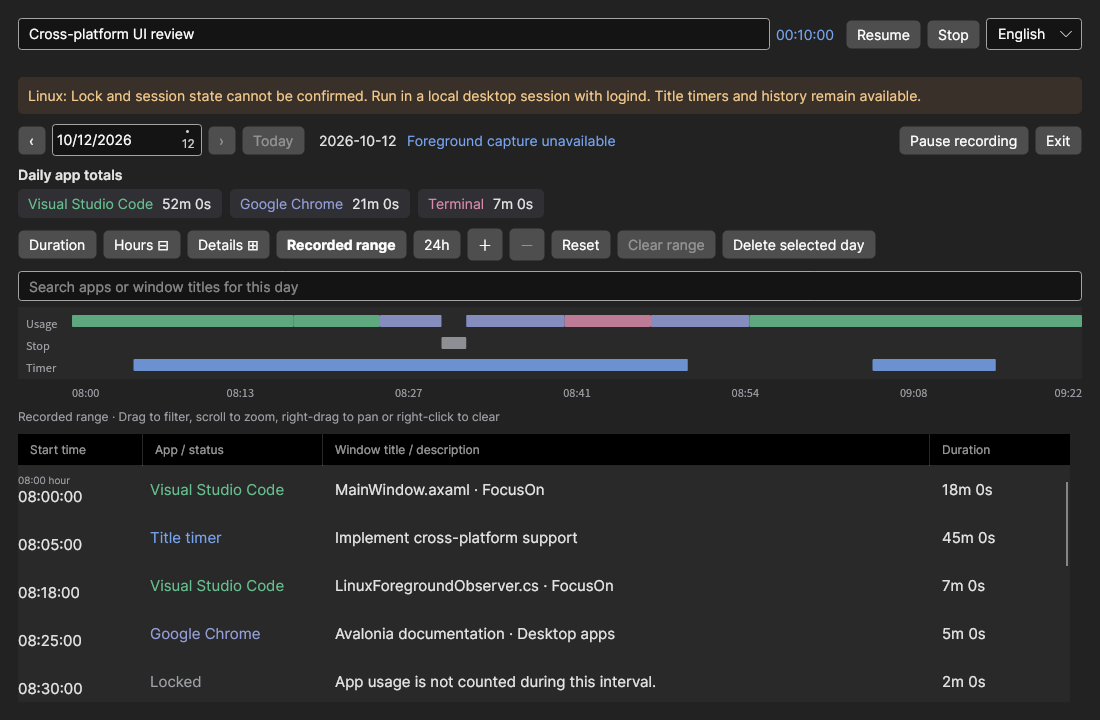
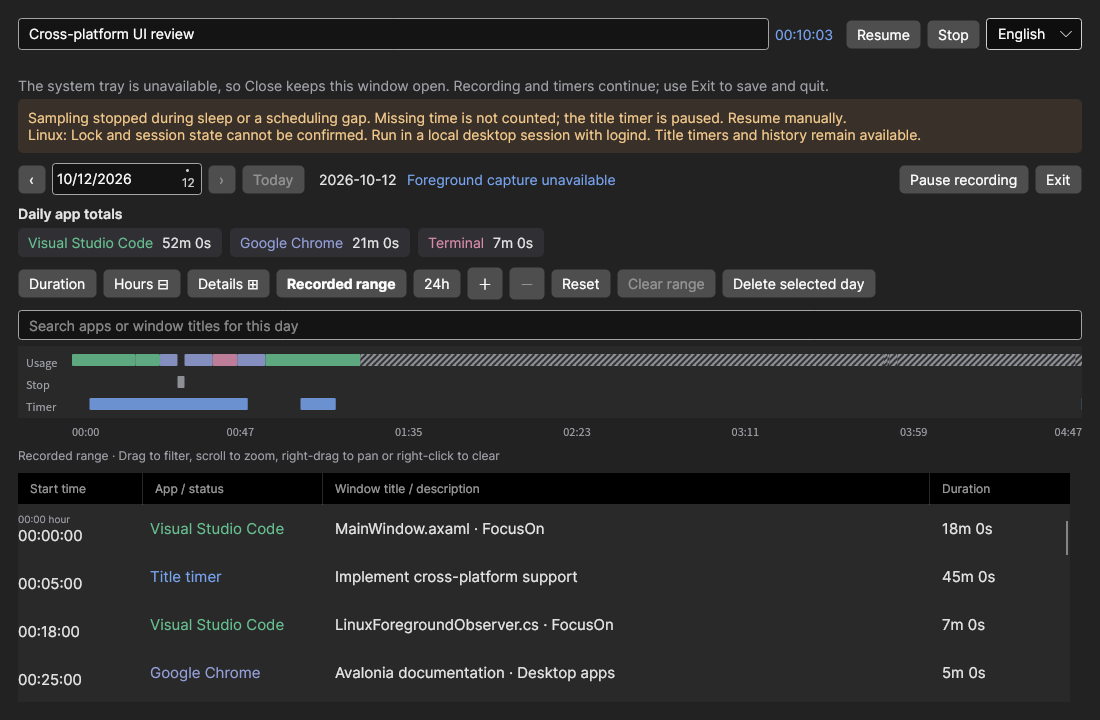
fix: make Mac single-instance IPC safe on Darwin ARM64 and long temp paths

diff --git a/src/FocusOn.Platforms/SingleInstance.cs b/src/FocusOn.Platforms/SingleInstance.cs
@@ -25,7 +25,9 @@ public sealed class SingleInstance : IDisposable
         directory = CanonicalDirectory(directory);
         var identityPath = OperatingSystem.IsWindows() ? directory.ToUpperInvariant() : directory;
         var identity = Convert.ToHexString(SHA256.HashData(Encoding.UTF8.GetBytes(Environment.UserName + "\0" + identityPath)));
-        pipeName = "FocusOn-" + identity;
+        // Darwin's per-user TMPDIR is long and Unix-domain pipe paths are limited
+        // to 104 bytes. Keep 128 bits of identity there; retain existing Win/Linux IPC names.
+        pipeName = "FocusOn-" + (OperatingSystem.IsMacOS() ? identity[..32] : identity);
         try
         {
             writer = new FileStream(Path.Combine(directory, ".focuson.lock"), FileMode.OpenOrCreate,
@@ -60,7 +62,12 @@ public sealed class SingleInstance : IDisposable
                 try
                 {
                     var buffer = new byte[1024];
-                    if (GetPath(fd, 50, buffer) == 0) directory = Encoding.UTF8.GetString(buffer, 0, Array.IndexOf(buffer, (byte)0));
+                    // fcntl is variadic. Darwin ARM64 passes varargs on the stack,
+                    // unlike the fixed three-argument P/Invoke ABI used on Intel.
+                    var result = RuntimeInformation.ProcessArchitecture == Architecture.Arm64
+                        ? GetPathArm64(fd, 50, 0, 0, 0, 0, 0, 0, buffer) : GetPath(fd, 50, buffer);
+                    var length = Array.IndexOf(buffer, (byte)0);
+                    if (result == 0 && length > 0) directory = Encoding.UTF8.GetString(buffer, 0, length);
                 }
                 finally { Close(fd); }
             }
@@ -72,6 +79,8 @@ public sealed class SingleInstance : IDisposable
     [DllImport("libc", EntryPoint = "free")] private static extern void Free(nint pointer);
     [DllImport("/usr/lib/libSystem.B.dylib", EntryPoint = "open")] private static extern int Open(string path, int flags);
     [DllImport("/usr/lib/libSystem.B.dylib", EntryPoint = "fcntl")] private static extern int GetPath(int fd, int command, byte[] path);
+    [DllImport("/usr/lib/libSystem.B.dylib", EntryPoint = "fcntl")] private static extern int GetPathArm64(int fd, int command,
+        nint unused2, nint unused3, nint unused4, nint unused5, nint unused6, nint unused7, [Out] byte[] path);
     [DllImport("/usr/lib/libSystem.B.dylib", EntryPoint = "close")] private static extern int Close(int fd);
 
     private NamedPipeServerStream CreatePipe() => new(pipeName, PipeDirection.In, 1,

diff --git a/tests/FocusOn.Tests/ResidencyTests.cs b/tests/FocusOn.Tests/ResidencyTests.cs
@@ -5,6 +5,31 @@ namespace FocusOn.Tests;
 public sealed class ResidencyTests
 {
     [Fact]
+    public void Unix_aliases_activate_the_same_writer_including_case_insensitive_Mac_volumes()
+    {
+        if (OperatingSystem.IsWindows()) return;
+        var directory = Path.Combine(Path.GetTempPath(), "FocusOn-alias-" + Guid.NewGuid().ToString("N"));
+        try
+        {
+            using var primary = new SingleInstance(Path.Combine(directory, "data"));
+            using var activated = new ManualResetEventSlim(); primary.Listen(activated.Set);
+            Directory.CreateSymbolicLink(Path.Combine(directory, "alias"), Path.Combine(directory, "data"));
+            using (var alias = new SingleInstance(Path.Combine(directory, "alias")))
+            {
+                Assert.False(alias.IsPrimary); alias.SignalExisting();
+                Assert.True(activated.Wait(TimeSpan.FromSeconds(5)));
+            }
+            if (Directory.Exists(Path.Combine(directory, "DATA")))
+            {
+                activated.Reset(); using var caseAlias = new SingleInstance(Path.Combine(directory, "DATA"));
+                Assert.False(caseAlias.IsPrimary); caseAlias.SignalExisting();
+                Assert.True(activated.Wait(TimeSpan.FromSeconds(5)));
+            }
+        }
+        finally { if (Directory.Exists(directory)) Directory.Delete(directory, true); }
+    }
+
+    [Fact]
     public void Startup_command_uses_the_exact_fixed_program_location_with_startup_mode()
     {
         Assert.Equal("\"C:\\Program Files\\FocusOn\\FocusOn.exe\" --startup",

diff --git a/.scratch/focuson/issues/13-icons-residency-and-native-release.md b/.scratch/focuson/issues/13-icons-residency-and-native-release.md
@@ -19,6 +19,8 @@
 
 ## Comments
 
+- 2026-10-12: User confirmed preparing v0.1.1 draft, retaining v0.1.0. First native run 38214196313 passed both Windows/Linux architectures; Mac failed. Diagnostics run 38214665412 exposed two actual prior Mac defects: Unix pipe paths exceed Darwin's 104-byte limit, and fixed-argument fcntl P/Invoke corrupts memory under Darwin ARM64's variadic ABI. Shortened only Mac IPC identity to 128 bits, retained Windows/Linux IPC names, and supplied ARM64 varargs on the stack. Added real symlink/case-alias activation regression. No Mac attachment uploaded or readiness claimed.
+
 - 2026-10-12: Baseline main 12f482c is clean and matches origin/main. Original MIT notice from d21c09f is retained. v0.1.0 remains at 43d6dfd; published Linux source is 409cb51. A separate v0.1.1 draft is proposed; user confirmed the v0.1.1 draft while implementation proceeds.
 - 2026-10-12: User will set About manually. Do not request ABOUT_TOKEN or change repository About as part of this ticket.
 - 2026-10-12: Implemented integrated 16–256 Windows ICO/executable resource, window/tray PNG, Linux 16–1024 hicolor/desktop installer, and multi-size Mac ICNS/template. Added recoverable residency and Dock Reopen; controller/database/language rules preserved. Native Mac observer implementation reviewed; TCC permission denial remains explicit.
